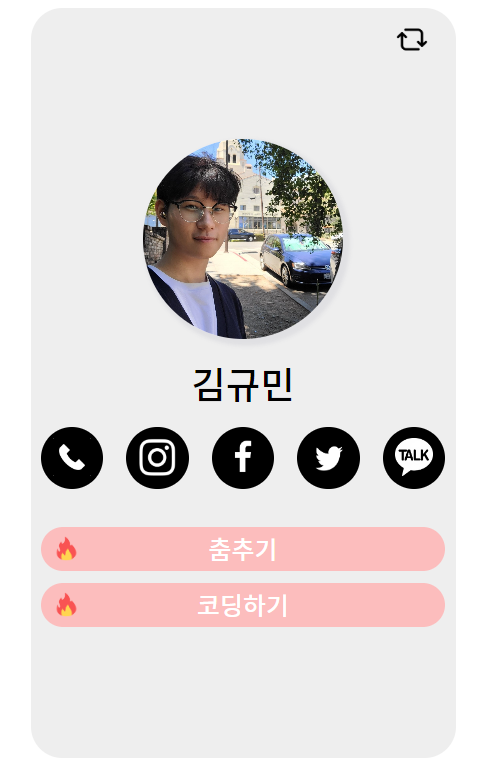
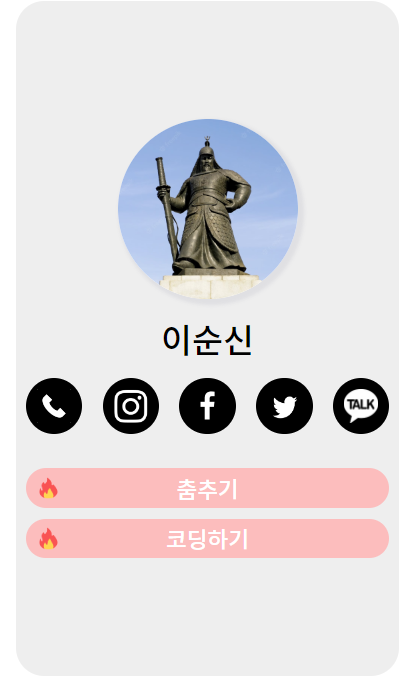
[CHORE] screenshot및 이름 변경

diff --git a/src/components/Profile.tsx b/src/components/Profile.tsx
@@ -29,7 +29,7 @@ const Profile = () => {
       <ImageWrapper>
         <Image src="/profile.jpeg" alt="profile" />
       </ImageWrapper>
-      <Name>김규민</Name>
+      <Name>이순신</Name>
       <IconWrapper>
         {LinkObjectArray.map((link) => (
           <Icon src={link.src} key={link.src} link={link.link} />
